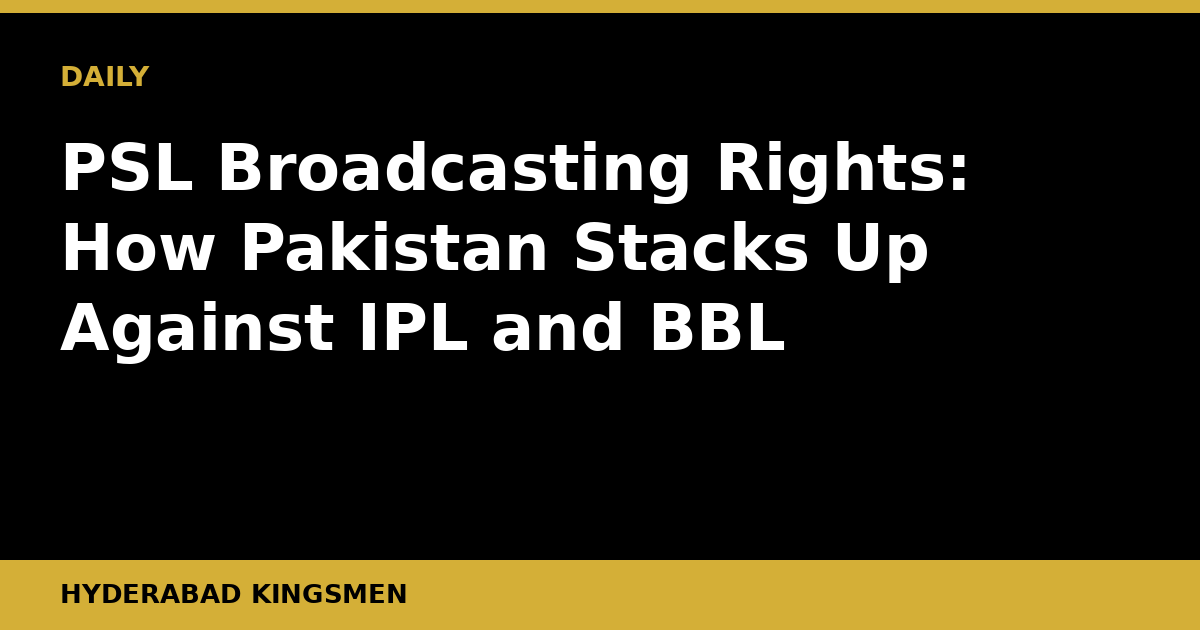
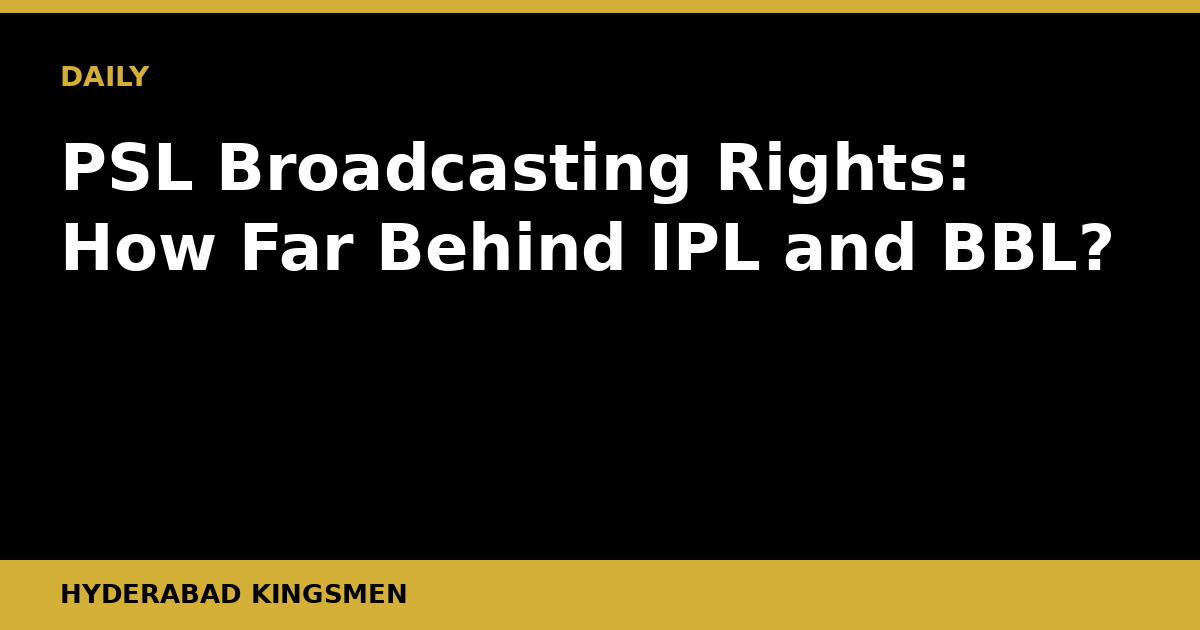
Daily post 2026-10-13

Changed region(s): [[0.2158, 0.3317, 0.925, 0.4524], [0.0308, 0.4825, 0.6475, 0.573]]

diff --git a/content/posts/psl-broadcasting-rights-comparison-ipl-bbl.md b/content/posts/psl-broadcasting-rights-comparison-ipl-bbl.md
@@ -1,9 +1,9 @@
 ---
-title: "PSL Broadcasting Rights: How Pakistan Stacks Up Against IPL and BBL"
+title: "PSL Broadcasting Rights: How Far Behind IPL and BBL?"
 slug: "psl-broadcasting-rights-comparison-ipl-bbl"
-date: "2026-09-07T05:32:30+05:00"
+date: "2026-10-13T07:16:06+05:00"
 draft: false
-description: "The PSL's broadcast deals are growing but still lag far behind the IPL's billions. Here is what the gap means for Pakistan cricket's financial future."
+description: "PSL's broadcast deals are growing but still lag far behind the IPL and BBL. Here is what the gap reveals about Pakistani cricket's commercial ambitions."
 banner: "/banners/psl-broadcasting-rights-comparison-ipl-bbl.png"
 kicker: "ANALYSIS"
 author: "Hyderabad Kingsmen"
@@ -12,40 +12,36 @@ tags: ["psl", "pakistan-cricket", "broadcasting", "ipl", "big-bash-league", "pcb
 categories: ["Analysis"]
 ---
 
-## The Money Behind the Microphone
+The Pakistan Super League is entering its tenth year of existence, yet its broadcasting footprint remains a fraction of what rival T20 leagues command. That gap is not just a commercial curiosity — it is the single biggest constraint on the PSL's ability to attract elite overseas talent, retain domestic stars, and fund franchise infrastructure.
 
-Broadcasting rights are the financial spine of modern franchise cricket. How much a league earns from television and streaming determines player salaries, franchise valuations, stadium infrastructure, and ultimately the quality of cricket on the pitch. For the Pakistan Super League, that spine is still developing, and the contrast with the Indian Premier League, and even Australia's Big Bash League, is instructive.
+## The Real Story: Money, Reach, and Leverage
 
-## The IPL: A Different Universe
+Broadcasting rights are the oxygen of modern franchise cricket. They determine player salaries, franchise valuations, and ultimately the quality of cricket on the field. When you line up the PSL against the Indian Premier League and the Big Bash League, the numbers tell a sobering story — but also one with genuine room for optimism.
 
-The IPL's current broadcast cycle, covering 2023 to 2027, was valued at approximately USD 6.2 billion after BCCI concluded negotiations with Star India and Viacom18 in 2022. That works out to roughly USD 10.9 million per match across the package. The numbers are staggering and reflect a combination of India's massive television audience, a premium digital market, and three decades of sustained investment in cricket's commercial infrastructure.
+The IPL is in a different universe entirely. BCCI's 2022 media rights auction returned roughly 48,390 crore rupees (approximately $6 billion USD) for a five-year cycle covering both digital and television rights. That works out to somewhere north of $1.1 billion per season. Star Sports and Viacom18 (now merged under Reliance's JioStar) split the pie, and the resulting revenue cascades down through every IPL franchise, making even a mid-table team financially stronger than most leagues' champions.
 
-To put it plainly: the IPL's broadcast revenues per season dwarf the total annual operating budgets of most PSL franchises. The gap is not merely financial. It shapes the entire ecosystem, from the quality of overseas stars franchises can attract to the production values beamed into living rooms.
+Cricket Australia's BBL is a more instructive comparison point for the PSL. The BBL signed a media rights deal reported at around AUD 1.5 billion across six years with Seven Network and Foxtel, putting it at roughly AUD 250 million per season. That is still a multiple of what the PSL currently commands, but the BBL reached those numbers only after years of deliberate audience-building and significant free-to-air exposure in Australia.
 
-## The BBL: A More Realistic Benchmark
+The PSL's current broadcast arrangement with Ten Sports (now Tapmad TV in the digital space) and PTV Sports domestically, plus various regional deals for the subcontinent and diaspora markets, does not approach those figures. Exact rights valuations for the PSL are not publicly disclosed by the PCB in the same transparent manner as Cricket Australia or BCCI auctions, which is itself part of the problem. Estimates from industry observers have placed the PSL's total broadcast value in the range of tens of millions of dollars per cycle — a gap of an order of magnitude compared to the BBL, let alone the IPL.
 
-Australia's Big Bash League offers a more useful comparison for the PSL, at least in the near term. Cricket Australia's broadcast deal with Seven Network and Foxtel, which runs through to 2031, is worth around AUD 1.5 billion over seven years. That translates to roughly AUD 215 million per season across a competition that typically features around 61 matches.
+## Why the Gap Exists
 
-The BBL benefits enormously from Australia's mature sports broadcast market and the loyalty of free-to-air television audiences. Yet the BBL has also faced criticism in recent years for declining ratings and an overloaded schedule. Pakistan faces none of those particular problems. PSL attendances and viewership within Pakistan remain enthusiastic.
+Three structural factors separate the PSL from its richer rivals.
 
-## Where the PSL Currently Stands
+First, Pakistan's domestic advertising market, while large in population terms, is constrained by economic turbulence and lower per-capita ad spend. Television buyers simply cannot match what Indian or Australian brands pour into sports sponsorship.
 
-The PCB has not consistently published detailed breakdowns of PSL broadcast revenues, which itself reflects the league's still-maturing commercial governance. What is known is that ARY Sports has been a key domestic broadcast partner, while Willow TV has carried PSL content for audiences in North America. PTV Sports and Ten Sports have also featured in various arrangements over different seasons.
+Second, international reach is complicated by security perceptions. For years, the entire PSL was played in the UAE, which fragmented the product and kept broadcast quality from matching the spectacle of home-ground cricket. The return of full Pakistan hosting has improved this, but legacy perceptions linger with international rights buyers.
 
-Estimates from cricket business analysts have placed total PSL broadcast income at somewhere between USD 20 million and USD 40 million per season across domestic and international rights, though the PCB has not officially confirmed a precise figure. Even taking the higher end of that range, the per-match value remains a fraction of the IPL's, and below the BBL's as well.
+Third, the PCB has historically bundled broadcast negotiations into broader administrative deals rather than running open, competitive auctions. The IPL's 2022 auction, which saw separate lots for digital and linear TV rights, drove prices up precisely because multiple bidders competed transparently. Greater PCB transparency and competitive tendering could meaningfully lift the PSL's broadcast valuation at the next rights cycle.
 
-The league's international broadcast footprint is still underdeveloped. The PSL is not yet consistently available on mainstream sports platforms in key markets such as the United Kingdom, the Gulf states with their large Pakistani diaspora populations, or Southeast Asia. That is revenue sitting on the table.
+## What This Means Going Forward
 
-## What the Gap Actually Means
+The PSL's broadcast ceiling will directly cap franchise ambitions. Hyderabad Kingsmen, like every other franchise, rely on the central rights pool to fund operations. Until that pool grows, franchises will struggle to break the cycle of losing developed talent to IPL, SA20, or ILT20 on superior contracts.
 
-The broadcast gap has direct consequences for Pakistan cricket beyond just franchise balance sheets. Smaller broadcast revenues constrain the player salary pool, which in turn limits the PSL's ability to compete with the IPL, the SA20, or the ILT20 for elite overseas talent. When Shaheen Shah Afridi or Babar Azam plays in the PSL, they are performing on a stage that earns a fraction of what their counterparts earn in Mumbai or Chennai. That asymmetry matters for Pakistan's narrative in global cricket commerce.
+The good news is that trajectory matters more than snapshot. The BBL was not worth AUD 250 million per season in its early years. The PSL is a younger league with a deeply passionate diaspora audience across the UK, UAE, and North America — markets that digital rights buyers increasingly value. A well-structured digital rights deal targeted at the Pakistani diaspora, separate from domestic linear TV rights, could unlock significant incremental revenue.
 
-For domestic players, the impact is more immediate. Lower broadcast revenues mean lower franchise profits, and lower franchise profits mean tighter contracts for emerging Pakistani talent. The PSL is still the most important breeding ground for Pakistan's national team pipeline, but it needs financial scale to fulfil that function properly.
+Digitisation is the lever. Tapmad has begun building streaming infrastructure, but a league-level OTT strategy backed by international partners, rather than a domestic-first approach, would accelerate the conversation with serious broadcast investors.
 
-## The Path Forward
+## What to Watch
 
-The PCB has publicly expressed ambitions to grow the PSL into a top-tier global product, and there are realistic steps available. A transparent, competitive broadcast rights auction, structured similarly to how the BCCI approached its 2022 deal, would help establish genuine market value. Aggressive pursuit of international streaming platforms, particularly in diaspora-heavy markets, could significantly expand the revenue base.
-
-Franchise investment in production quality also matters. Broadcasters pay premium rates for leagues that deliver premium viewing experiences. The PSL has the players, the venues, and the passion. Converting that into broadcast currency is the commercial challenge that defines the next chapter.
-
-**What to watch:** Whether the PCB announces a formal rights auction structure ahead of the next broadcast cycle, and whether international streaming platforms enter the PSL bidding. Those two developments would signal that Pakistan's most valuable cricket property is ready to close the gap.
+The PSL's current broadcast cycle is due for renegotiation in the near term. Watch whether the PCB opts for a transparent, competitive auction process or another closed-door arrangement. Watch also whether franchise representatives push for separate digital and linear rights lots — the IPL model — as a mechanism to drive bidder competition. And keep an eye on whether any global streaming platforms with South Asian audience strategies enter the conversation. That would be the signal that the PSL broadcast story is finally changing in a meaningful way.
